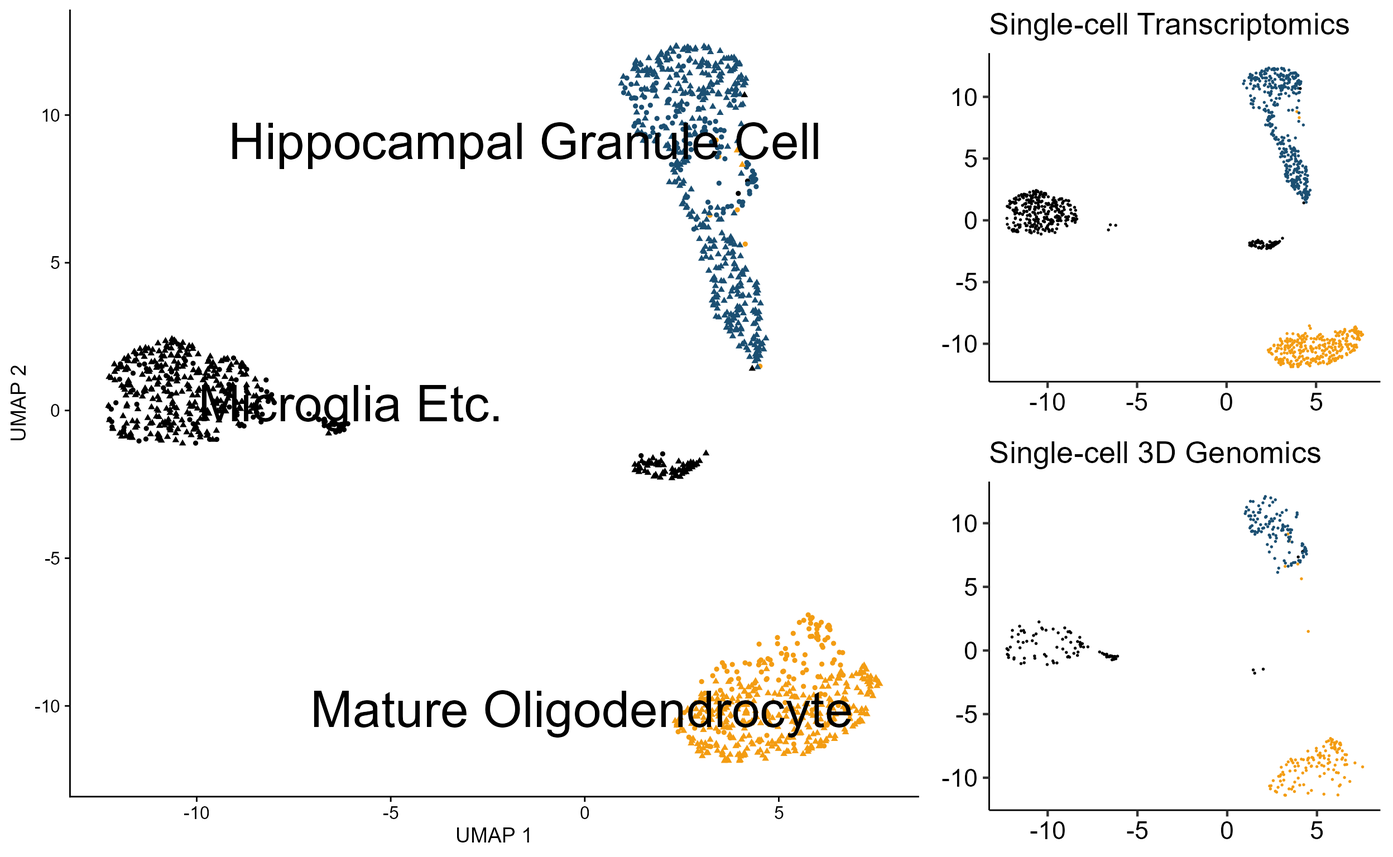
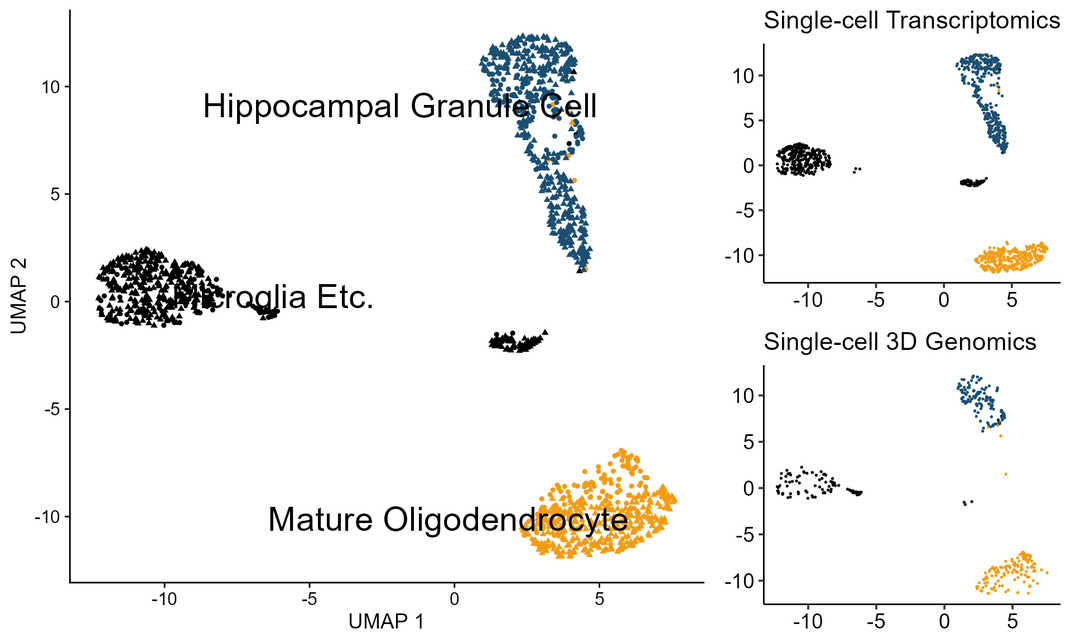
Add files via upload

diff --git a/docs/articles/BandNorm-tutorial.html b/docs/articles/BandNorm-tutorial.html
@@ -166,7 +166,6 @@ chr1    2000000 chr1    4000000 2</code></pre>
 <span class="co">#&gt; Loading required package: harmony</span>
 <span class="co">#&gt; Loading required package: Rcpp</span>
 <span class="co">#&gt; Warning: package 'Rcpp' was built under R version 4.0.5</span>
-<span class="co">#&gt; Loading required package: FreeHiCLite</span>
 <span class="co">#&gt; Loading required package: Matrix</span>
 <span class="co">#&gt; Warning: package 'Matrix' was built under R version 4.0.5</span>
 <span class="co">#&gt; Loading required package: gmodels</span>
@@ -188,6 +187,10 @@ chr1    2000000 chr1    4000000 2</code></pre>
 <span class="co">#&gt; Loading required package: Seurat</span>
 <span class="co">#&gt; Warning: package 'Seurat' was built under R version 4.0.5</span>
 <span class="co">#&gt; Attaching SeuratObject</span>
+<span class="co">#&gt; Loading required package: strawr</span>
+<span class="co">#&gt; Warning: package 'strawr' was built under R version 4.0.5</span>
+<span class="co">#&gt; Loading required package: rmarkdown</span>
+<span class="co">#&gt; Warning: package 'rmarkdown' was built under R version 4.0.5</span>
 <span class="fu"><a href="https://rdrr.io/r/utils/data.html">data</a></span><span class="op">(</span><span class="va">hic_df</span><span class="op">)</span>
 <span class="fu"><a href="https://rdrr.io/r/base/print.html">print</a></span><span class="op">(</span><span class="va">hic_df</span><span class="op">[</span><span class="fl">1</span><span class="op">:</span><span class="fl">10</span>, <span class="op">]</span><span class="op">)</span>
 <span class="co">#&gt;    chrom  binA  binB count  diag    cell</span>
@@ -270,117 +273,114 @@ chr1    2000000 chr1    4000000 2</code></pre>
 <span class="co">#&gt; Harmony 5/10</span>
 <span class="co">#&gt; Harmony 6/10</span>
 <span class="co">#&gt; Harmony 7/10</span>
-<span class="co">#&gt; Harmony 8/10</span>
-<span class="co">#&gt; Harmony 9/10</span>
-<span class="co">#&gt; Harmony 10/10</span>
-<span class="co">#&gt; Harmony converged after 10 iterations</span>
+<span class="co">#&gt; Harmony converged after 7 iterations</span>
 <span class="va">embedding</span><span class="op">[</span><span class="fl">1</span><span class="op">:</span><span class="fl">10</span>, <span class="op">]</span>
-<span class="co">#&gt;                 PC1       PC2          PC3        PC4         PC5        PC6</span>
-<span class="co">#&gt; Astro_1  -23.073491 30.297083 -19.73875216 30.8619717 -28.7363811 -18.540817</span>
-<span class="co">#&gt; Astro_2   -8.599776 33.214895   0.81589421 14.6415949 -14.0820704   8.741318</span>
-<span class="co">#&gt; Astro_3   -2.691967  3.040100  -1.28871168  7.1321228   8.0866667 -20.544098</span>
-<span class="co">#&gt; Astro_4   -8.652986 26.576039 -28.11022567 12.7413986 -14.2926579 -17.951178</span>
-<span class="co">#&gt; Astro_5    7.577649 11.212912 -18.89976662  7.0645847 -14.1848900 -15.828268</span>
-<span class="co">#&gt; Astro_6  -22.427896 13.791919 -18.24245899  0.3619986  -3.1304498   8.108719</span>
-<span class="co">#&gt; Astro_7  -27.774476 21.083890 -11.44540599  7.3578402  -7.3724091  -4.896353</span>
-<span class="co">#&gt; Astro_8   -5.353543 41.562932   0.09699079  6.7034916  -7.7967877  12.112307</span>
-<span class="co">#&gt; Astro_9   -9.075179 12.206922 -15.74899606  8.4253811  -0.9032461  11.838654</span>
-<span class="co">#&gt; Astro_10 -17.221057  5.166105 -11.77236566  4.4967479 -23.7653079  -8.946312</span>
-<span class="co">#&gt;                 PC7        PC8        PC9       PC10        PC11        PC12</span>
-<span class="co">#&gt; Astro_1   -7.594958 -48.952807 29.6482347  -3.744406  7.92448941 -13.7973016</span>
-<span class="co">#&gt; Astro_2   -1.853509  -8.448316 16.1858075  13.984738 25.45669970 -28.2914159</span>
-<span class="co">#&gt; Astro_3  -15.216373  15.164415  8.9070569   4.619891 14.49909282  -8.1125923</span>
-<span class="co">#&gt; Astro_4    9.765944   1.199330  6.2791143 -13.586999  0.04168374 -15.5893117</span>
-<span class="co">#&gt; Astro_5   -2.338662   8.664926 32.6100345  19.821059 71.46057021 -32.6989156</span>
-<span class="co">#&gt; Astro_6   -8.970303  -3.933349  2.5162345   2.250781  7.91776932 -43.6534070</span>
-<span class="co">#&gt; Astro_7   -1.713211  -2.684308 -0.5325713  -9.860737 -1.49540831  -9.4517237</span>
-<span class="co">#&gt; Astro_8  -17.913010  14.082511 -0.1689852   1.991545 22.22124199   0.8840939</span>
-<span class="co">#&gt; Astro_9   10.387961  43.059185 35.1804789  15.970227 20.85669841 -66.3647118</span>
-<span class="co">#&gt; Astro_10  14.316778  -4.014122 33.1067919 -16.180209 13.44523518 -30.3914637</span>
-<span class="co">#&gt;                  PC13       PC14       PC15       PC16       PC17       PC18</span>
-<span class="co">#&gt; Astro_1   42.13303590 -28.369023  13.503273 -29.231787  54.932172 -40.773997</span>
-<span class="co">#&gt; Astro_2   -0.05960855   2.840941  -4.195210   5.416869 -17.168185 -18.126766</span>
-<span class="co">#&gt; Astro_3   16.71457445   4.399337   6.980905  10.195392  15.493917  -6.914996</span>
-<span class="co">#&gt; Astro_4   -6.01355953   5.039857 -17.033548  -7.806587   2.509568   2.168870</span>
-<span class="co">#&gt; Astro_5   25.98607836  44.568138  -8.977355  14.684230  -7.130040  25.294624</span>
-<span class="co">#&gt; Astro_6   26.95955966  -1.726479   5.588204 -14.894379   2.782293 -12.149518</span>
-<span class="co">#&gt; Astro_7   19.25882785  -4.147610  -6.341807  -1.079372  14.414553 -23.373176</span>
-<span class="co">#&gt; Astro_8   -8.63315684 -45.762486  -7.094981 -15.057877  -7.597148  -4.583326</span>
-<span class="co">#&gt; Astro_9  -32.04120247 -28.247469  18.468230  33.618639 -19.104535 -39.654218</span>
-<span class="co">#&gt; Astro_10  17.59909352 -24.983972 -11.173427   2.360632  21.532606 -25.457641</span>
-<span class="co">#&gt;                PC19       PC20        PC21       PC22         PC23       PC24</span>
-<span class="co">#&gt; Astro_1   34.765551  29.578458 -165.079427  71.372411 -14.89429804 -23.653269</span>
-<span class="co">#&gt; Astro_2   -1.380197  -6.785663    4.129635 -11.093370   0.08486817   4.875333</span>
-<span class="co">#&gt; Astro_3   33.108159  12.231927   -8.041653   8.695959  -0.43895922  -4.655246</span>
-<span class="co">#&gt; Astro_4  -11.965406  13.646340    9.698028  -9.932636 -21.89754514 -12.073904</span>
-<span class="co">#&gt; Astro_5  107.419525  18.892250  111.589833   4.485616 115.79325729 -91.335939</span>
-<span class="co">#&gt; Astro_6  -20.069542  -1.654682    3.673820  48.546284  -2.87176456   5.482120</span>
-<span class="co">#&gt; Astro_7   -9.776675  -4.761593   -5.679960  15.934803 -20.62667700  -3.920921</span>
-<span class="co">#&gt; Astro_8    1.394895 -14.862392  -38.732064 -28.755109 -24.22492689  27.136466</span>
-<span class="co">#&gt; Astro_9  -98.672480 -59.305569   30.470947 -64.714346  35.78702136  19.615467</span>
-<span class="co">#&gt; Astro_10  -4.023878  -5.293881   -2.619474 -21.498159  -1.16358604  -3.243238</span>
-<span class="co">#&gt;                PC25        PC26        PC27        PC28       PC29        PC30</span>
-<span class="co">#&gt; Astro_1    3.837417  -48.835899  26.6527927 -155.999182  20.663068 -34.8613475</span>
-<span class="co">#&gt; Astro_2   -7.071452    3.978576  -0.4681554   -6.067916  -8.885078  15.6817043</span>
-<span class="co">#&gt; Astro_3    6.034805   12.515972 -28.3606001    7.524584  33.784116   6.6589079</span>
-<span class="co">#&gt; Astro_4   -1.507713   11.309608  25.3871040   14.619842   5.869870 -10.3161214</span>
-<span class="co">#&gt; Astro_5   38.001837   82.385978 -55.8727118   78.285114 -50.486500  19.2811822</span>
-<span class="co">#&gt; Astro_6    5.039564   -3.372054  36.5937207  -11.722839  20.311115   0.8804704</span>
-<span class="co">#&gt; Astro_7   32.260240    6.879909  28.0274277    6.451650  16.212719 -24.2186809</span>
-<span class="co">#&gt; Astro_8   14.876740    1.322895 -38.6528971   26.227909  13.587061 -36.2119457</span>
-<span class="co">#&gt; Astro_9    4.029583 -151.863731  -3.2405932   80.056143  -8.154873  -2.4377931</span>
-<span class="co">#&gt; Astro_10 -41.549931   -4.446960  22.8930497    1.613867  10.258092  -2.3111014</span>
-<span class="co">#&gt;                 PC31       PC32        PC33       PC34         PC35       PC36</span>
-<span class="co">#&gt; Astro_1    9.2395486 -62.635136  12.1200153 -10.121555  62.92279283 -65.488539</span>
-<span class="co">#&gt; Astro_2   -4.6423686   3.592134  17.6677754  12.105104  -3.92546280  -1.164524</span>
-<span class="co">#&gt; Astro_3   12.4275261 -16.768447 -70.9232432  -6.535977   8.01493401  -7.661328</span>
-<span class="co">#&gt; Astro_4  -22.6151289  17.039062  -3.2481276  15.326745  23.52664626  15.593609</span>
-<span class="co">#&gt; Astro_5  -24.2251718   9.499109  -4.2218197 -38.179885  59.01565918  32.515445</span>
-<span class="co">#&gt; Astro_6   -0.3113551  39.932408  10.7926362  -8.885007   8.30110282   6.677443</span>
-<span class="co">#&gt; Astro_7  -31.1474265   2.795211 -26.3408942   1.556208 -52.42576566  -3.434696</span>
-<span class="co">#&gt; Astro_8   14.0836468   5.771078  55.2595294 -25.409898  61.53443052  26.123637</span>
-<span class="co">#&gt; Astro_9   52.2019048  -7.637311  -0.4463137  -1.277904 -69.46954557  -9.235945</span>
-<span class="co">#&gt; Astro_10 -36.9734959  39.061988 -31.3483889  19.751079  -0.07246345  12.773080</span>
-<span class="co">#&gt;                PC37       PC38       PC39       PC40       PC41       PC42</span>
-<span class="co">#&gt; Astro_1   12.869634  -14.94331  54.251228  -6.917953  -6.666643   1.403420</span>
-<span class="co">#&gt; Astro_2    8.764531   14.88371   9.345336  -1.482249  -9.525483  26.986607</span>
-<span class="co">#&gt; Astro_3  -14.451378   47.59206  -2.338277 -29.630470  11.267376   2.685711</span>
-<span class="co">#&gt; Astro_4  -26.612622  -37.56086  39.886870   2.409798 -46.591720 -19.269073</span>
-<span class="co">#&gt; Astro_5   -9.499134  -34.05019  23.301035 -40.985219  72.645749   8.400509</span>
-<span class="co">#&gt; Astro_6  -16.405769   36.92129  43.774285  37.191720  -2.655285  30.821027</span>
-<span class="co">#&gt; Astro_7  -18.301087   29.38353 -36.069457   6.936953  31.350557 -42.441836</span>
-<span class="co">#&gt; Astro_8   29.283570 -114.63814   9.410252 -13.164703 -10.809752 -28.123344</span>
-<span class="co">#&gt; Astro_9    6.302795   71.02910 -69.293763  28.552398 -13.318218  18.726829</span>
-<span class="co">#&gt; Astro_10  11.852726  -25.56234 -50.245964 -67.186048 -25.632001  22.626312</span>
-<span class="co">#&gt;                PC43       PC44       PC45        PC46       PC47       PC48</span>
-<span class="co">#&gt; Astro_1   -1.379679 -10.167157  26.783558   4.8844893 -16.604971  24.952965</span>
-<span class="co">#&gt; Astro_2   34.242398   2.016852 -14.753445 -23.7456940  -9.391538 -18.802521</span>
-<span class="co">#&gt; Astro_3   -2.955026  38.688319  33.931751  17.3080243  50.757099  75.341107</span>
-<span class="co">#&gt; Astro_4   26.343542   2.114936   9.774017  56.9896720  39.092636  -5.464513</span>
-<span class="co">#&gt; Astro_5  -13.062010   6.520175 -18.703894 -13.1328473 -41.476398   2.202484</span>
-<span class="co">#&gt; Astro_6  -31.414367   1.987061 -53.512493   0.1023383 -19.947890  11.481558</span>
-<span class="co">#&gt; Astro_7   -9.782255 -14.282588  10.054903 -67.9604108  -9.487772  12.949448</span>
-<span class="co">#&gt; Astro_8   41.278687  37.593404 -54.952740  22.6392559  44.107209 -39.270917</span>
-<span class="co">#&gt; Astro_9  -14.434996  -9.991141  25.248281  25.3177202  43.610909 -49.231889</span>
-<span class="co">#&gt; Astro_10  33.252830  11.521956  12.918566 -11.6908434 -28.285087 -21.765664</span>
-<span class="co">#&gt;                PC49       PC50</span>
-<span class="co">#&gt; Astro_1   26.146699 -18.417859</span>
-<span class="co">#&gt; Astro_2  -20.592183  12.895531</span>
-<span class="co">#&gt; Astro_3   -4.945454  -6.459438</span>
-<span class="co">#&gt; Astro_4   34.928297  32.080658</span>
-<span class="co">#&gt; Astro_5  -19.585681   4.616851</span>
-<span class="co">#&gt; Astro_6   -7.074786  -4.430888</span>
-<span class="co">#&gt; Astro_7   -2.217498  31.089373</span>
-<span class="co">#&gt; Astro_8   28.013394  30.859145</span>
-<span class="co">#&gt; Astro_9   35.194498  -8.639278</span>
-<span class="co">#&gt; Astro_10 -57.301790 -77.378248</span></code></pre></div>
+<span class="co">#&gt;                  PC1       PC2         PC3        PC4        PC5        PC6</span>
+<span class="co">#&gt; Astro_1  -17.4176728 28.640209 -22.3764360  33.601768 -36.261823 -16.973427</span>
+<span class="co">#&gt; Astro_2  -14.7534909 33.127959   2.3909745  10.772931  -6.082757   9.483162</span>
+<span class="co">#&gt; Astro_3    0.3782542  5.393258   0.5081808   1.628431  16.223578 -11.763774</span>
+<span class="co">#&gt; Astro_4   -7.7004284 29.141338 -27.9868303   7.443200  -9.996266 -15.573331</span>
+<span class="co">#&gt; Astro_5    3.7816457  7.339258 -21.8853389  11.354060 -21.937231 -22.419036</span>
+<span class="co">#&gt; Astro_6  -18.5732357 16.028582 -23.2775843  -3.618943  -4.376977   9.494114</span>
+<span class="co">#&gt; Astro_7  -22.1545077 27.699069 -21.5546806 -10.407249  -2.965215  -5.007962</span>
+<span class="co">#&gt; Astro_8    1.6836471 42.949661   1.4034796   4.772469  -2.159732  12.415489</span>
+<span class="co">#&gt; Astro_9  -12.8622171  8.368211 -18.8144326  12.623711  -8.613994   5.274317</span>
+<span class="co">#&gt; Astro_10 -15.0835371  4.808163 -13.4615228   3.922271 -24.966316  -9.238266</span>
+<span class="co">#&gt;                 PC7          PC8         PC9       PC10      PC11       PC12</span>
+<span class="co">#&gt; Astro_1    4.534953 -47.69303387 38.90785998  -2.899750 31.747502 -27.346440</span>
+<span class="co">#&gt; Astro_2   -9.047229  -8.29995771  6.76355227  13.395959  4.558958 -18.162244</span>
+<span class="co">#&gt; Astro_3  -15.552695  25.10160328  1.44743315   8.737697  7.837773  -8.958316</span>
+<span class="co">#&gt; Astro_4    8.078645   2.12817997  2.11804209 -13.195984 -6.381440 -13.024414</span>
+<span class="co">#&gt; Astro_5    2.700738  -0.08388356 39.68634520  15.901929 80.375063 -35.045770</span>
+<span class="co">#&gt; Astro_6   -9.935260  -3.64532886  1.87974430   1.529228  7.709511 -43.860775</span>
+<span class="co">#&gt; Astro_7   -2.582141   3.00539622 -4.32968189  -7.268729 -2.456077 -10.742317</span>
+<span class="co">#&gt; Astro_8  -20.701587  12.28003206 -0.03921554   0.266245 26.395019   2.352171</span>
+<span class="co">#&gt; Astro_9   15.341119  34.32173517 42.18143564  12.047269 29.634253 -68.671247</span>
+<span class="co">#&gt; Astro_10  14.501111  -3.83329039 33.60773521 -16.710056 14.249362 -28.886806</span>
+<span class="co">#&gt;                PC13       PC14        PC15       PC16        PC17        PC18</span>
+<span class="co">#&gt; Astro_1   30.971073 -18.454055  19.5738964 -13.081318  43.2884793 -45.6068819</span>
+<span class="co">#&gt; Astro_2    5.716159  -2.429419 -13.9076734  -4.439544 -10.2444372 -14.2955180</span>
+<span class="co">#&gt; Astro_3    7.224886   7.505230  -6.3758673  16.562470   4.6358074   0.1926291</span>
+<span class="co">#&gt; Astro_4   -4.632777   3.929068 -22.1965774  -8.354175   0.8384303   4.2150682</span>
+<span class="co">#&gt; Astro_5   30.578500  45.883706   0.5375785  14.219731  -0.6034274  17.1297287</span>
+<span class="co">#&gt; Astro_6   26.872823  -1.453893   4.8572276 -15.032970   1.9171376 -11.5165644</span>
+<span class="co">#&gt; Astro_7   16.577513  -2.768065 -10.5878811   6.682498  12.1134071 -21.1849821</span>
+<span class="co">#&gt; Astro_8    4.237907 -55.335834  -0.6390919  -7.359417 -11.8734215   1.3451980</span>
+<span class="co">#&gt; Astro_9  -27.397196 -26.981318  27.9325912  33.054401 -12.5178399 -47.7909862</span>
+<span class="co">#&gt; Astro_10  16.745274 -24.548985 -11.0625769   3.250906  20.1912689 -24.4246697</span>
+<span class="co">#&gt;                 PC19       PC20        PC21       PC22        PC23        PC24</span>
+<span class="co">#&gt; Astro_1   35.5577932  18.406417 -141.501378  57.317615  18.5763607  -41.519853</span>
+<span class="co">#&gt; Astro_2   -1.6151287   1.301126  -10.670435  -1.808620 -28.9321327   19.595912</span>
+<span class="co">#&gt; Astro_3   25.6629597   2.417551   26.187710  -6.178041  -5.6708654    4.740579</span>
+<span class="co">#&gt; Astro_4  -12.6565705  15.574520   13.385498  -7.722992 -31.3169884   -8.380131</span>
+<span class="co">#&gt; Astro_5  115.5409406  26.066239   85.001252  15.221265 124.6045462 -103.663869</span>
+<span class="co">#&gt; Astro_6  -21.4155905  -3.446328    3.445456  47.993474  -5.9039535    8.763484</span>
+<span class="co">#&gt; Astro_7   -6.5031516  -1.732311    2.819872  12.358947 -22.3743707   -6.096222</span>
+<span class="co">#&gt; Astro_8    0.4345102 -21.252375  -37.077112 -25.179668 -32.1514520   32.550400</span>
+<span class="co">#&gt; Astro_9  -90.5973573 -52.111460    3.780557 -53.933148  44.3544681    7.445945</span>
+<span class="co">#&gt; Astro_10  -3.8968947  -6.331250   -3.185879 -20.700933   0.2786888   -2.298422</span>
+<span class="co">#&gt;                PC25         PC26       PC27        PC28       PC29       PC30</span>
+<span class="co">#&gt; Astro_1   13.047944  -68.4572855  16.524973 -126.150035   4.104362 -33.476547</span>
+<span class="co">#&gt; Astro_2  -12.247049   21.6369737   5.127722  -25.462233   5.569868  13.021824</span>
+<span class="co">#&gt; Astro_3    4.047332   30.1625066 -30.545980   39.441670  31.290534  11.819228</span>
+<span class="co">#&gt; Astro_4   -2.778717   17.9984987  27.167413   15.980864  10.882714 -12.880600</span>
+<span class="co">#&gt; Astro_5   43.981409   62.9056379 -58.050849   55.566255 -49.613485  12.444214</span>
+<span class="co">#&gt; Astro_6    3.211131   -0.5734338  33.590888   -9.216997  23.663390   0.903483</span>
+<span class="co">#&gt; Astro_7   33.940842   10.4066871  24.935409   18.656923  15.055483 -25.274789</span>
+<span class="co">#&gt; Astro_8   13.886598   -2.4820052 -31.211242   24.669472  14.129846 -43.437984</span>
+<span class="co">#&gt; Astro_9    9.941331 -171.1972288  -5.371510   57.205826  -7.154668  -9.284975</span>
+<span class="co">#&gt; Astro_10 -42.890368   -3.9991989  19.884859    3.340287  11.047972  -1.234239</span>
+<span class="co">#&gt;                 PC31       PC32       PC33        PC34       PC35       PC36</span>
+<span class="co">#&gt; Astro_1    7.8315359 -56.602154  24.497247 -19.4089401  60.278980 -67.998705</span>
+<span class="co">#&gt; Astro_2   -9.6897095   3.776238   9.646572  20.2709350  -6.269714   5.524498</span>
+<span class="co">#&gt; Astro_3   -0.2682587   1.787032 -69.060631   2.8623180  -9.133313   6.985820</span>
+<span class="co">#&gt; Astro_4  -26.1529702  22.653694  -7.571578  17.8785156  16.030386  22.082895</span>
+<span class="co">#&gt; Astro_5  -17.9126108  -3.130256  -2.040178 -48.5017290  71.239777  22.163127</span>
+<span class="co">#&gt; Astro_6   -4.3600697  43.788125  12.908247  -6.8101252  14.203896  10.387055</span>
+<span class="co">#&gt; Astro_7  -30.3918830  -1.734462 -35.141855   0.3409764 -63.843551  -1.857040</span>
+<span class="co">#&gt; Astro_8   15.0763230  13.645525  47.082241 -25.0419800  58.337868  33.809758</span>
+<span class="co">#&gt; Astro_9   58.4562564 -20.180832   1.689658 -11.4873817 -57.197585 -19.484217</span>
+<span class="co">#&gt; Astro_10 -38.1470857  37.994621 -31.232474  18.7377728   4.579268  11.168639</span>
+<span class="co">#&gt;                PC37       PC38      PC39         PC40        PC41       PC42</span>
+<span class="co">#&gt; Astro_1   18.832755  -20.43063  45.68468  -3.45560886  -0.8481624   4.674073</span>
+<span class="co">#&gt; Astro_2    7.116087   21.66101  15.20692  -0.04128949 -13.4600045  22.587491</span>
+<span class="co">#&gt; Astro_3  -13.074406   52.55659 -10.38646 -21.53285353  12.0090238   2.597177</span>
+<span class="co">#&gt; Astro_4  -26.083111  -30.29398  39.43702   5.63135475 -46.6266591 -17.258294</span>
+<span class="co">#&gt; Astro_5   -6.539265  -37.11084  28.80854 -44.03089507  73.9194949   7.158959</span>
+<span class="co">#&gt; Astro_6  -16.047342   30.38081  46.15957  34.77702740  -9.5105976  31.726090</span>
+<span class="co">#&gt; Astro_7  -19.127264   35.07010 -37.00469   7.84570539  33.9036946 -41.370074</span>
+<span class="co">#&gt; Astro_8   35.468314 -110.02991  13.93903 -12.45468526   2.6458097 -19.831518</span>
+<span class="co">#&gt; Astro_9    9.254088   67.96276 -63.74380  25.51111595 -12.0844988  17.456624</span>
+<span class="co">#&gt; Astro_10  11.498606  -32.18451 -47.31483 -71.28493278 -32.1278260  23.741770</span>
+<span class="co">#&gt;                 PC43       PC44       PC45       PC46       PC47       PC48</span>
+<span class="co">#&gt; Astro_1   -6.4226492 -10.372188  16.603325   6.090436 -28.813363   3.233874</span>
+<span class="co">#&gt; Astro_2   34.7514282   1.551253  -9.348577 -24.994177  -3.259521  -4.157615</span>
+<span class="co">#&gt; Astro_3   -0.6019272  39.150295  21.323536  12.296393  49.513398  68.069723</span>
+<span class="co">#&gt; Astro_4   24.7815347   3.649895  10.389494  54.093853  36.200929  -1.137512</span>
+<span class="co">#&gt; Astro_5  -20.3329561   4.982379 -10.616189  -8.526580 -46.263991   3.229538</span>
+<span class="co">#&gt; Astro_6  -29.8460638  10.292486 -51.787219   9.351135 -26.192349   8.690574</span>
+<span class="co">#&gt; Astro_7   -1.8744299 -16.453084  12.585293 -73.353553   3.003089  12.713421</span>
+<span class="co">#&gt; Astro_8   40.7490304  34.437886 -54.984755  26.284004  32.227146 -39.097879</span>
+<span class="co">#&gt; Astro_9  -21.6904418 -11.501838  33.361109  29.969348  38.792047 -48.119415</span>
+<span class="co">#&gt; Astro_10  37.4505878  18.351100  15.454004  -3.424597 -29.551979 -24.744740</span>
+<span class="co">#&gt;                PC49        PC50</span>
+<span class="co">#&gt; Astro_1   32.837366 -24.9876279</span>
+<span class="co">#&gt; Astro_2  -25.494445  21.0696629</span>
+<span class="co">#&gt; Astro_3  -11.155537  -0.5350497</span>
+<span class="co">#&gt; Astro_4   33.584708  34.7346347</span>
+<span class="co">#&gt; Astro_5  -11.504925   0.3825573</span>
+<span class="co">#&gt; Astro_6  -10.190548  -7.5309290</span>
+<span class="co">#&gt; Astro_7    4.133794  44.4430464</span>
+<span class="co">#&gt; Astro_8   22.746427  25.4800060</span>
+<span class="co">#&gt; Astro_9   43.197499 -12.9081923</span>
+<span class="co">#&gt; Astro_10 -58.576217 -76.0753316</span></code></pre></div>
 <p>Finally, using the embedding, you can use UMAP or tSNE to get a projection of all the cells on the 2D plane. If you have the cell-type information or batch information, it is possible to color them on the plot.</p>
 <div class="sourceCode" id="cb10"><pre class="downlit sourceCode r">
 <code class="sourceCode R"><span class="fu"><a href="../reference/plot_embedding.html">plot_embedding</a></span><span class="op">(</span><span class="va">embedding</span>, <span class="st">"UMAP"</span>, cell_info <span class="op">=</span> <span class="va">cell_type</span>, label <span class="op">=</span> <span class="st">"Cell Type"</span><span class="op">)</span></code></pre></div>
-<p><img src="BandNorm-tutorial_files/figure-html/plot_embedding-1.png" width="1248"></p>
+<p><img src="BandNorm-tutorial_files/figure-html/plot_embedding-1.png" width="960"></p>
 <div class="sourceCode" id="cb11"><pre class="downlit sourceCode r">
 <code class="sourceCode R"><span class="fu"><a href="../reference/plot_embedding.html">plot_embedding</a></span><span class="op">(</span><span class="va">embedding</span>, <span class="st">"UMAP"</span>, cell_info <span class="op">=</span> <span class="va">batch</span>, label <span class="op">=</span> <span class="st">"Batch"</span><span class="op">)</span></code></pre></div>
-<p><img src="BandNorm-tutorial_files/figure-html/plot_embedding-2.png" width="1248"></p>
+<p><img src="BandNorm-tutorial_files/figure-html/plot_embedding-2.png" width="960"></p>
 </div>
   </div>
 

diff --git a/docs/articles/scGAD-tutorial.html b/docs/articles/scGAD-tutorial.html
@@ -194,7 +194,6 @@ chr1  5578574  5596212         Oprk1</code></pre>
 <span class="co">#&gt; Loading required package: harmony</span>
 <span class="co">#&gt; Loading required package: Rcpp</span>
 <span class="co">#&gt; Warning: package 'Rcpp' was built under R version 4.0.5</span>
-<span class="co">#&gt; Loading required package: FreeHiCLite</span>
 <span class="co">#&gt; Loading required package: Matrix</span>
 <span class="co">#&gt; Warning: package 'Matrix' was built under R version 4.0.5</span>
 <span class="co">#&gt; Loading required package: gmodels</span>
@@ -216,6 +215,10 @@ chr1  5578574  5596212         Oprk1</code></pre>
 <span class="co">#&gt; Loading required package: Seurat</span>
 <span class="co">#&gt; Warning: package 'Seurat' was built under R version 4.0.5</span>
 <span class="co">#&gt; Attaching SeuratObject</span>
+<span class="co">#&gt; Loading required package: strawr</span>
+<span class="co">#&gt; Warning: package 'strawr' was built under R version 4.0.5</span>
+<span class="co">#&gt; Loading required package: rmarkdown</span>
+<span class="co">#&gt; Warning: package 'rmarkdown' was built under R version 4.0.5</span>
 <span class="kw"><a href="https://rdrr.io/r/base/library.html">library</a></span><span class="op">(</span><span class="va"><a href="https://github.com/jeroen/curl">curl</a></span><span class="op">)</span>
 <span class="co">#&gt; Warning: package 'curl' was built under R version 4.0.5</span>
 <span class="co">#&gt; Using libcurl 7.64.1 with Schannel</span>
@@ -250,7 +253,7 @@ Rgs20   -0.14     -1.25     0.16</code></pre>
 <span class="va">gadPCA</span> <span class="op">=</span> <span class="fu"><a href="https://rdrr.io/r/base/data.frame.html">data.frame</a></span><span class="op">(</span><span class="va">gadPCA</span>, cellTypes <span class="op">=</span> <span class="va">summary</span><span class="op">$</span><span class="va">`cell-type cluster`</span><span class="op">)</span>
 <span class="fu"><a href="https://ggplot2.tidyverse.org/reference/ggplot.html">ggplot</a></span><span class="op">(</span><span class="va">gadPCA</span>, <span class="fu"><a href="https://ggplot2.tidyverse.org/reference/aes.html">aes</a></span><span class="op">(</span>x <span class="op">=</span> <span class="va">PC1</span>, y <span class="op">=</span> <span class="va">PC2</span>, col <span class="op">=</span> <span class="va">cellTypes</span><span class="op">)</span><span class="op">)</span> <span class="op">+</span> <span class="fu"><a href="https://ggplot2.tidyverse.org/reference/geom_point.html">geom_point</a></span><span class="op">(</span><span class="op">)</span> <span class="op">+</span> <span class="fu"><a href="https://ggplot2.tidyverse.org/reference/ggtheme.html">theme_bw</a></span><span class="op">(</span>base_size <span class="op">=</span> <span class="fl">20</span><span class="op">)</span> <span class="op">+</span> <span class="fu"><a href="https://ggplot2.tidyverse.org/reference/scale_manual.html">scale_color_manual</a></span><span class="op">(</span>breaks <span class="op">=</span> <span class="fu"><a href="https://rdrr.io/r/base/c.html">c</a></span><span class="op">(</span><span class="st">"Hippocampal Granule Cell"</span>, <span class="st">"Mature Oligodendrocyte"</span>, <span class="st">"Microglia Etc."</span><span class="op">)</span>,
                    values <span class="op">=</span> <span class="fu"><a href="https://rdrr.io/r/base/c.html">c</a></span><span class="op">(</span><span class="st">"#1B4F72"</span>, <span class="st">"#F39C12"</span>, <span class="st">"#000000"</span><span class="op">)</span><span class="op">)</span></code></pre></div>
-<p><img src="scGAD-tutorial_files/figure-html/PCA%20Result-1.png" width="1248"></p>
+<p><img src="scGAD-tutorial_files/figure-html/PCA%20Result-1.png" width="960"></p>
 </div>
 </div>
 <div id="projection-of-scgad-on-scrna-seq" class="section level2">
@@ -299,22 +302,22 @@ Rgs20   -0.14     -1.25     0.16</code></pre>
 <span class="co">#&gt; Warning: The default method for RunUMAP has changed from calling Python UMAP via reticulate to the R-native UWOT using the cosine metric</span>
 <span class="co">#&gt; To use Python UMAP via reticulate, set umap.method to 'umap-learn' and metric to 'correlation'</span>
 <span class="co">#&gt; This message will be shown once per session</span>
-<span class="co">#&gt; 16:42:25 UMAP embedding parameters a = 0.9922 b = 1.112</span>
-<span class="co">#&gt; 16:42:25 Read 1426 rows and found 5 numeric columns</span>
-<span class="co">#&gt; 16:42:25 Using Annoy for neighbor search, n_neighbors = 30</span>
-<span class="co">#&gt; 16:42:25 Building Annoy index with metric = cosine, n_trees = 50</span>
+<span class="co">#&gt; 16:56:14 UMAP embedding parameters a = 0.9922 b = 1.112</span>
+<span class="co">#&gt; 16:56:14 Read 1426 rows and found 5 numeric columns</span>
+<span class="co">#&gt; 16:56:14 Using Annoy for neighbor search, n_neighbors = 30</span>
+<span class="co">#&gt; 16:56:14 Building Annoy index with metric = cosine, n_trees = 50</span>
 <span class="co">#&gt; 0%   10   20   30   40   50   60   70   80   90   100%</span>
 <span class="co">#&gt; [----|----|----|----|----|----|----|----|----|----|</span>
 <span class="co">#&gt; **************************************************|</span>
-<span class="co">#&gt; 16:42:25 Writing NN index file to temp file C:\Users\solei\AppData\Local\Temp\RtmpkDVGCe\file460c42c969d6</span>
-<span class="co">#&gt; 16:42:25 Searching Annoy index using 1 thread, search_k = 3000</span>
-<span class="co">#&gt; 16:42:26 Annoy recall = 100%</span>
-<span class="co">#&gt; 16:42:26 Commencing smooth kNN distance calibration using 1 thread</span>
-<span class="co">#&gt; 16:42:26 Initializing from normalized Laplacian + noise</span>
-<span class="co">#&gt; 16:42:26 Commencing optimization for 500 epochs, with 55294 positive edges</span>
-<span class="co">#&gt; 16:42:29 Optimization finished</span>
+<span class="co">#&gt; 16:56:14 Writing NN index file to temp file C:\Users\solei\AppData\Local\Temp\Rtmp2hzItn\file2dcc62c63443</span>
+<span class="co">#&gt; 16:56:14 Searching Annoy index using 1 thread, search_k = 3000</span>
+<span class="co">#&gt; 16:56:15 Annoy recall = 100%</span>
+<span class="co">#&gt; 16:56:15 Commencing smooth kNN distance calibration using 1 thread</span>
+<span class="co">#&gt; 16:56:15 Initializing from normalized Laplacian + noise</span>
+<span class="co">#&gt; 16:56:15 Commencing optimization for 500 epochs, with 55294 positive edges</span>
+<span class="co">#&gt; 16:56:18 Optimization finished</span>
 
-<span class="va">p_celltype</span> <span class="op">&lt;-</span> <span class="fu"><a href="https://satijalab.org/seurat/reference/DimPlot.html">DimPlot</a></span><span class="op">(</span><span class="va">combinedAssay</span>, reduction <span class="op">=</span> <span class="st">"umap"</span>, label <span class="op">=</span> <span class="cn">TRUE</span>, repel <span class="op">=</span> <span class="cn">TRUE</span>, pt.size <span class="op">=</span> <span class="fl">1.3</span>, shape.by <span class="op">=</span> <span class="st">"method"</span>, label.size <span class="op">=</span> <span class="fl">12</span><span class="op">)</span> <span class="op">+</span>
+<span class="va">p_celltype</span> <span class="op">&lt;-</span> <span class="fu"><a href="https://satijalab.org/seurat/reference/DimPlot.html">DimPlot</a></span><span class="op">(</span><span class="va">combinedAssay</span>, reduction <span class="op">=</span> <span class="st">"umap"</span>, label <span class="op">=</span> <span class="cn">TRUE</span>, repel <span class="op">=</span> <span class="cn">TRUE</span>, pt.size <span class="op">=</span> <span class="fl">1.3</span>, shape.by <span class="op">=</span> <span class="st">"method"</span>, label.size <span class="op">=</span> <span class="fl">8</span><span class="op">)</span> <span class="op">+</span>
 <span class="fu"><a href="https://ggplot2.tidyverse.org/reference/labs.html">xlab</a></span><span class="op">(</span><span class="st">"UMAP 1"</span><span class="op">)</span> <span class="op">+</span>
 <span class="fu"><a href="https://ggplot2.tidyverse.org/reference/labs.html">ylab</a></span><span class="op">(</span><span class="st">"UMAP 2"</span><span class="op">)</span> <span class="op">+</span>
 <span class="fu"><a href="https://ggplot2.tidyverse.org/reference/scale_manual.html">scale_color_manual</a></span><span class="op">(</span>breaks <span class="op">=</span> <span class="fu"><a href="https://rdrr.io/r/base/c.html">c</a></span><span class="op">(</span><span class="st">"Hippocampal Granule Cell"</span>, <span class="st">"Mature Oligodendrocyte"</span>, <span class="st">"Microglia Etc."</span><span class="op">)</span>,
@@ -326,7 +329,7 @@ Rgs20   -0.14     -1.25     0.16</code></pre>
 <span class="fu"><a href="https://dplyr.tidyverse.org/reference/filter.html">filter</a></span><span class="op">(</span><span class="va">label</span> <span class="op">==</span> <span class="st">"scRNA-seq"</span><span class="op">)</span> <span class="op">%&gt;%</span>
 <span class="fu"><a href="https://ggplot2.tidyverse.org/reference/ggplot.html">ggplot</a></span><span class="op">(</span><span class="fu"><a href="https://ggplot2.tidyverse.org/reference/aes.html">aes</a></span><span class="op">(</span>x <span class="op">=</span> <span class="va">UMAP_1</span>, y <span class="op">=</span> <span class="va">UMAP_2</span>, color <span class="op">=</span> <span class="va">celltype</span><span class="op">)</span><span class="op">)</span> <span class="op">+</span>
 <span class="fu"><a href="https://ggplot2.tidyverse.org/reference/geom_point.html">geom_point</a></span><span class="op">(</span>size <span class="op">=</span> <span class="fl">0.3</span><span class="op">)</span> <span class="op">+</span>
-<span class="fu"><a href="https://rpkgs.datanovia.com/ggpubr/reference/theme_pubr.html">theme_pubr</a></span><span class="op">(</span>base_size <span class="op">=</span> <span class="fl">17</span><span class="op">)</span> <span class="op">+</span>
+<span class="fu"><a href="https://rpkgs.datanovia.com/ggpubr/reference/theme_pubr.html">theme_pubr</a></span><span class="op">(</span>base_size <span class="op">=</span> <span class="fl">14</span><span class="op">)</span> <span class="op">+</span>
 <span class="fu"><a href="https://ggplot2.tidyverse.org/reference/scale_manual.html">scale_color_manual</a></span><span class="op">(</span>breaks <span class="op">=</span> <span class="fu"><a href="https://rdrr.io/r/base/c.html">c</a></span><span class="op">(</span><span class="st">"Hippocampal Granule Cell"</span>, <span class="st">"Mature Oligodendrocyte"</span>, <span class="st">"Microglia Etc."</span><span class="op">)</span>,
                    values <span class="op">=</span> <span class="fu"><a href="https://rdrr.io/r/base/c.html">c</a></span><span class="op">(</span><span class="st">"#1B4F72"</span>, <span class="st">"#F39C12"</span>, <span class="st">"#000000"</span><span class="op">)</span><span class="op">)</span> <span class="op">+</span>
 <span class="fu"><a href="https://ggplot2.tidyverse.org/reference/labs.html">xlab</a></span><span class="op">(</span><span class="st">"UMAP 1"</span><span class="op">)</span> <span class="op">+</span>
@@ -339,7 +342,7 @@ Rgs20   -0.14     -1.25     0.16</code></pre>
 <span class="fu"><a href="https://dplyr.tidyverse.org/reference/filter.html">filter</a></span><span class="op">(</span><span class="va">label</span> <span class="op">==</span> <span class="st">"scGAD"</span><span class="op">)</span> <span class="op">%&gt;%</span>
 <span class="fu"><a href="https://ggplot2.tidyverse.org/reference/ggplot.html">ggplot</a></span><span class="op">(</span><span class="fu"><a href="https://ggplot2.tidyverse.org/reference/aes.html">aes</a></span><span class="op">(</span>x <span class="op">=</span> <span class="va">UMAP_1</span>, y <span class="op">=</span> <span class="va">UMAP_2</span>, color <span class="op">=</span> <span class="va">celltype</span><span class="op">)</span><span class="op">)</span> <span class="op">+</span>
 <span class="fu"><a href="https://ggplot2.tidyverse.org/reference/geom_point.html">geom_point</a></span><span class="op">(</span>size <span class="op">=</span> <span class="fl">0.3</span><span class="op">)</span> <span class="op">+</span>
-<span class="fu"><a href="https://rpkgs.datanovia.com/ggpubr/reference/theme_pubr.html">theme_pubr</a></span><span class="op">(</span>base_size <span class="op">=</span> <span class="fl">17</span><span class="op">)</span> <span class="op">+</span>
+<span class="fu"><a href="https://rpkgs.datanovia.com/ggpubr/reference/theme_pubr.html">theme_pubr</a></span><span class="op">(</span>base_size <span class="op">=</span> <span class="fl">14</span><span class="op">)</span> <span class="op">+</span>
 <span class="fu"><a href="https://ggplot2.tidyverse.org/reference/scale_manual.html">scale_color_manual</a></span><span class="op">(</span>breaks <span class="op">=</span> <span class="fu"><a href="https://rdrr.io/r/base/c.html">c</a></span><span class="op">(</span><span class="st">"Hippocampal Granule Cell"</span>, <span class="st">"Mature Oligodendrocyte"</span>, <span class="st">"Microglia Etc."</span><span class="op">)</span>,
                    values <span class="op">=</span> <span class="fu"><a href="https://rdrr.io/r/base/c.html">c</a></span><span class="op">(</span><span class="st">"#1B4F72"</span>, <span class="st">"#F39C12"</span>, <span class="st">"#000000"</span><span class="op">)</span><span class="op">)</span> <span class="op">+</span>
 <span class="fu"><a href="https://ggplot2.tidyverse.org/reference/labs.html">xlab</a></span><span class="op">(</span><span class="st">"UMAP 1"</span><span class="op">)</span> <span class="op">+</span>
@@ -351,7 +354,7 @@ Rgs20   -0.14     -1.25     0.16</code></pre>
 
 <span class="va">lay</span> <span class="op">=</span> <span class="fu"><a href="https://rdrr.io/r/base/cbind.html">rbind</a></span><span class="op">(</span><span class="fu"><a href="https://rdrr.io/r/base/c.html">c</a></span><span class="op">(</span><span class="fl">1</span>, <span class="fl">1</span>, <span class="fl">2</span><span class="op">)</span><span class="op">)</span>
 <span class="fu"><a href="https://rdrr.io/pkg/gridExtra/man/arrangeGrob.html">grid.arrange</a></span><span class="op">(</span><span class="va">p_celltype</span>, <span class="fu"><a href="https://rdrr.io/pkg/gridExtra/man/arrangeGrob.html">arrangeGrob</a></span><span class="op">(</span><span class="va">pRNA</span>, <span class="va">pGAD</span>, ncol <span class="op">=</span> <span class="fl">1</span>, nrow <span class="op">=</span> <span class="fl">2</span><span class="op">)</span>, layout_matrix <span class="op">=</span> <span class="va">lay</span><span class="op">)</span></code></pre></div>
-<p><img src="scGAD-tutorial_files/figure-html/Projection-1.png" width="1248"></p>
+<p><img src="scGAD-tutorial_files/figure-html/Projection-1.png" width="960"></p>
 </div>
   </div>
 
